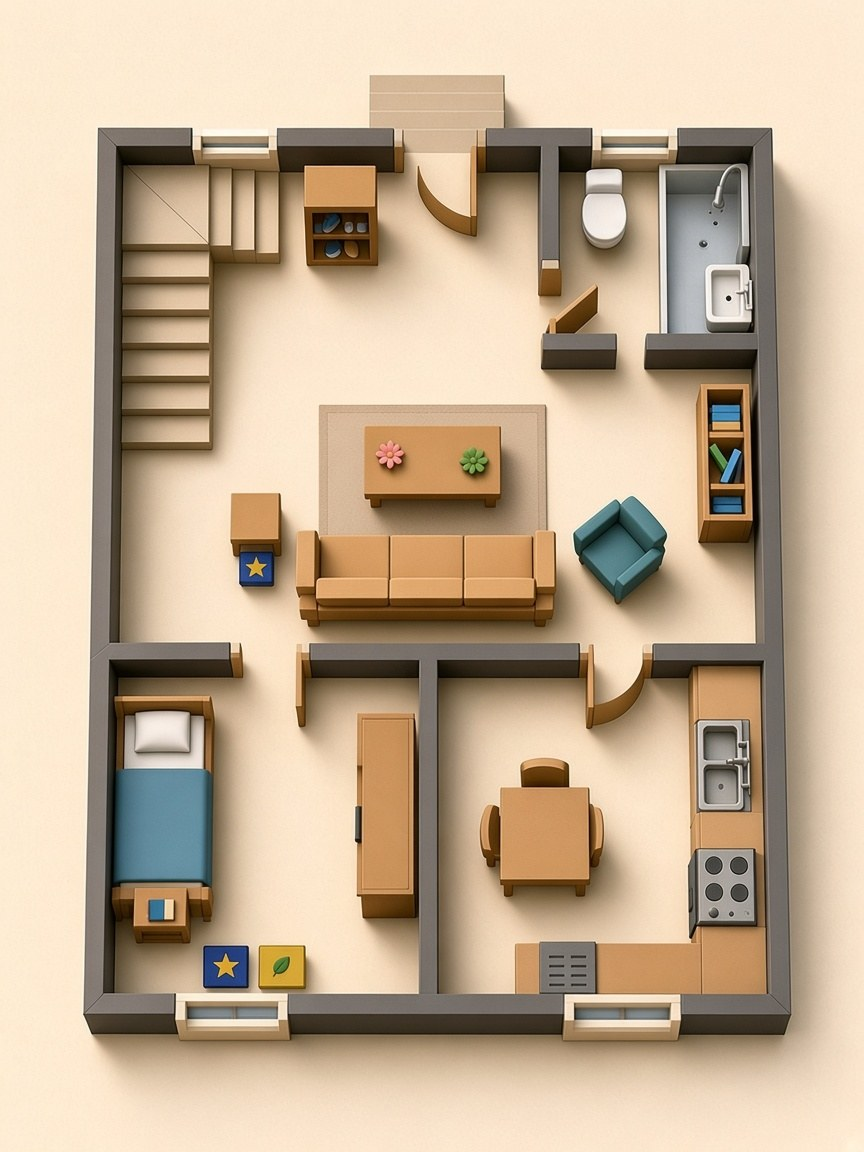
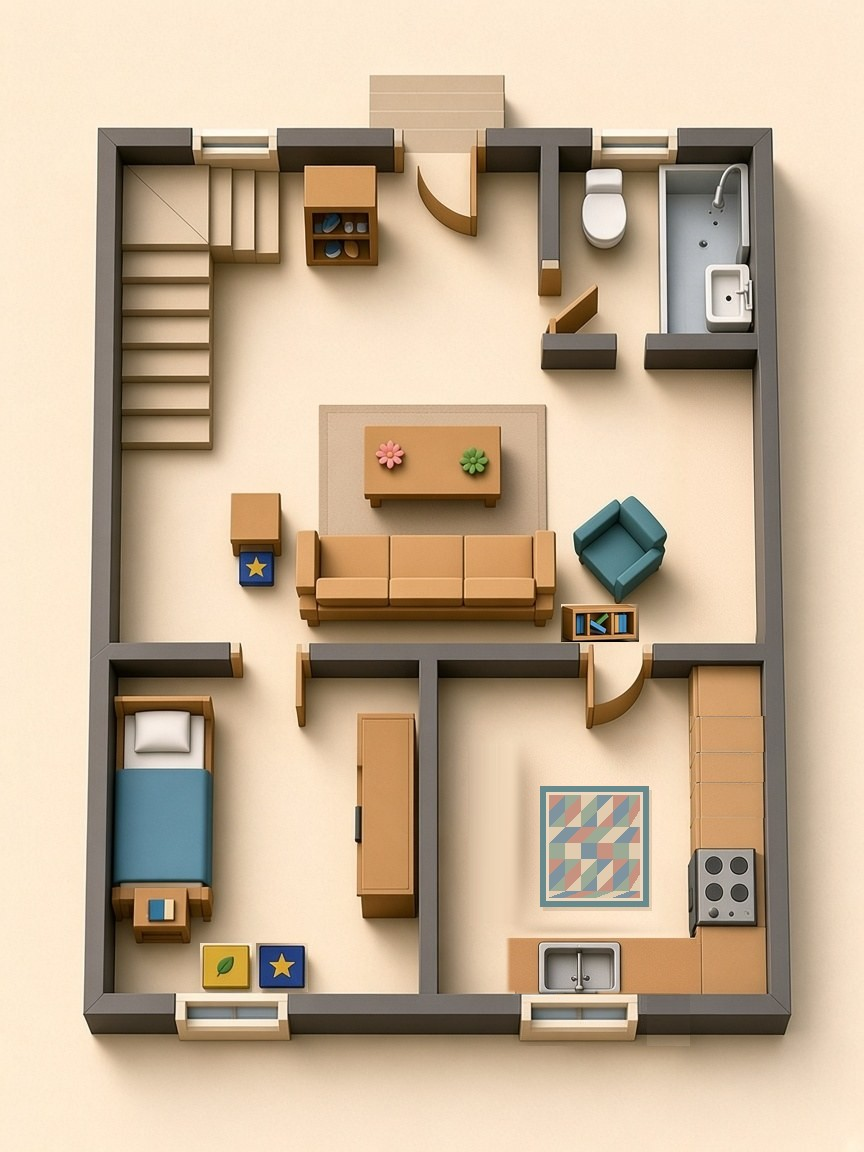
nes v0.6.35: house-map matches each room camera - kitchen L counter, sink under window, rug, no table; bedroom boxes swapped; living bookshelf by the sofa (cutscene 1.0.2)

diff --git a/games/never-ending-story/src/modules/cutscene/registry.ts b/games/never-ending-story/src/modules/cutscene/registry.ts
@@ -49,9 +49,9 @@ export const ARTWORKS: Artwork[] = [
     file: 'house-map.jpg',
     usedIn: ['prologue', 'event-01', 'jigsaw'],
     characterIds: [],
-    prompt: `${STYLE} Top-down clay miniature floor plan of the ground floor of Grandma's modern two-storey house on cream paper, no labels. Top of the image is the front: front steps and door in the middle of the top wall; front strip with the staircase (top-left), entrance hall with shoe rack (top-middle) and a bathroom (top-right). Full-width living room in the middle with the sofa against its bottom wall facing the entrance, coffee table and rug in front, teal armchair and bookshelf to the right, side table and blue star box to the left. Back: Grandma's bedroom bottom-left (bed, wardrobe, blue star box and yellow leaf box under the window), kitchen bottom-right (L counter, sink, stove, dining table). Used as the house plan and as the jigsaw photo.`,
+    prompt: `${STYLE} Top-down clay miniature floor plan of the ground floor of Grandma's modern two-storey house on cream paper, no labels. Top of the image is the front: front steps and door in the middle of the top wall; front strip with the staircase (top-left), entrance hall with shoe rack (top-middle) and a bathroom (top-right). Full-width living room in the middle with the sofa against its bottom wall facing the entrance, coffee table and rug in front, teal armchair to the right with a low bookshelf against the bottom wall between the sofa and the kitchen door, side table and blue star box to the left. Back: Grandma's bedroom bottom-left (bed, wardrobe, yellow leaf box then blue star box under the window), kitchen bottom-right entered from a door at the right of its top wall (L counter along the right wall with the stove and along the bottom wall with the sink under a window just left of centre, patterned rug in the middle, no dining table). Used as the house plan and as the jigsaw photo.`,
     negative: `${NEGATIVE}, text, labels, letters`,
-    styleNotes: `Generated 2026-11-22 for house v2 phase 1 (docs/design/house-v2-proposal.md). The living-room camera stands at the entrance looking down the plan, so the kitchen is on the left of living-wide.jpg and the bedroom door on the right. Keep the room footprint: the deduction map zones in event-core FlowView depend on it. ${sheet}`,
+    styleNotes: `Generated 2026-11-22 for house v2 phase 1 (docs/design/house-v2-proposal.md). The living-room camera stands at the entrance looking down the plan, so the kitchen is on the left of living-wide.jpg and the bedroom door on the right. Furniture follows each room camera (cutscene 1.0.2): living-wide, study-wide and kitchen-wide all look down the plan from their doors, so scene-left is plan-right; kitchen, bedroom boxes and living bookshelf were edited by hand on 2026-11-22 to match. Keep the room footprint: the deduction map zones in event-core FlowView depend on it. ${sheet}`,
     promptSource: 'original',
     version: CUTSCENE_VERSION,
     order: 70,

diff --git a/games/never-ending-story/src/modules/cutscene/GDD.md b/games/never-ending-story/src/modules/cutscene/GDD.md
@@ -54,6 +54,6 @@ core >=0.6.13, character ^1.0.0 ผู้ใช้: โปรล็อก, event
 ## 13. Changelog (ผูกกับเวอร์ชันโมดูล)
 | เวอร์ชัน | แอป | การเปลี่ยนแปลง |
 |---|---|---|
-| 1.0.2 | 0.6.35 | `cutscene-01-p2.jpg` ช่องล่าง: หนูกอดย่ามะลิ (เดิมกอดแม่) ที่ประตูหน้าบ้าน ชุดและผมย่าตรงกับช่องกลาง ช่องบนและกลางคงเดิมแบบไม่บีบอัดซ้ำ `case-01.p2` เหลือตัวละคร grandma, player |
+| 1.0.2 | 0.6.35 | `cutscene-01-p2.jpg` ช่องล่าง: หนูกอดย่ามะลิ (เดิมกอดแม่) ที่ประตูหน้าบ้าน ชุดและผมย่าตรงกับช่องกลาง ช่องบนและกลางคงเดิมแบบไม่บีบอัดซ้ำ `case-01.p2` เหลือตัวละคร grandma, player และแก้ `house-map.jpg` ให้ตรงมุมกล้องของแต่ละห้อง (กล้องยืนที่ประตูมองลงล่างของแผนที่ ซ้ายภาพจึงเป็นขวาแผนที่): ครัวเอาโต๊ะกินข้าวออก เคาน์เตอร์รูปตัว L ชิดผนังขวา (เตา) กับผนังล่าง (ซิงก์ใต้หน้าต่างค่อนซ้าย) พรมลายกลางห้อง ห้องนอนย่าสลับกล่องเป็นกล่องเหลืองซ้าย กล่องดาวขวา ห้องนั่งเล่นย้ายชั้นหนังสือจากผนังขวาไปชิดผนังล่างข้างโซฟา ผังห้องเดิม โซนแผนที่และจุดแตะไม่เปลี่ยน |
 | 1.0.1 | 0.6.34 | วาด `cutscene-01-p2.jpg` ใหม่เป็นบ้านสมัยใหม่สองชั้นตอนเช้า (เดิมเป็นเรือนไม้ใต้ถุนสูงตอนเย็น) ตัวละครชุดเดิม และวาด `house-map.jpg` ใหม่ ทางเข้าอยู่ด้านบน โซฟาชิดผนังล่างของห้องนั่งเล่น มีบันไดกับห้องน้ำแถวหน้า ห้องซ้ายล่างเป็นห้องนอนย่า สัดส่วน 3:4 เท่าเดิม พรอมต์ของสองภาพนี้เป็น `original` |
 | 1.0.0 | 0.6.13 | ทะเบียนภาพฉากที่ใช้จริง พรอมต์เขียนใหม่จากภาพ |
